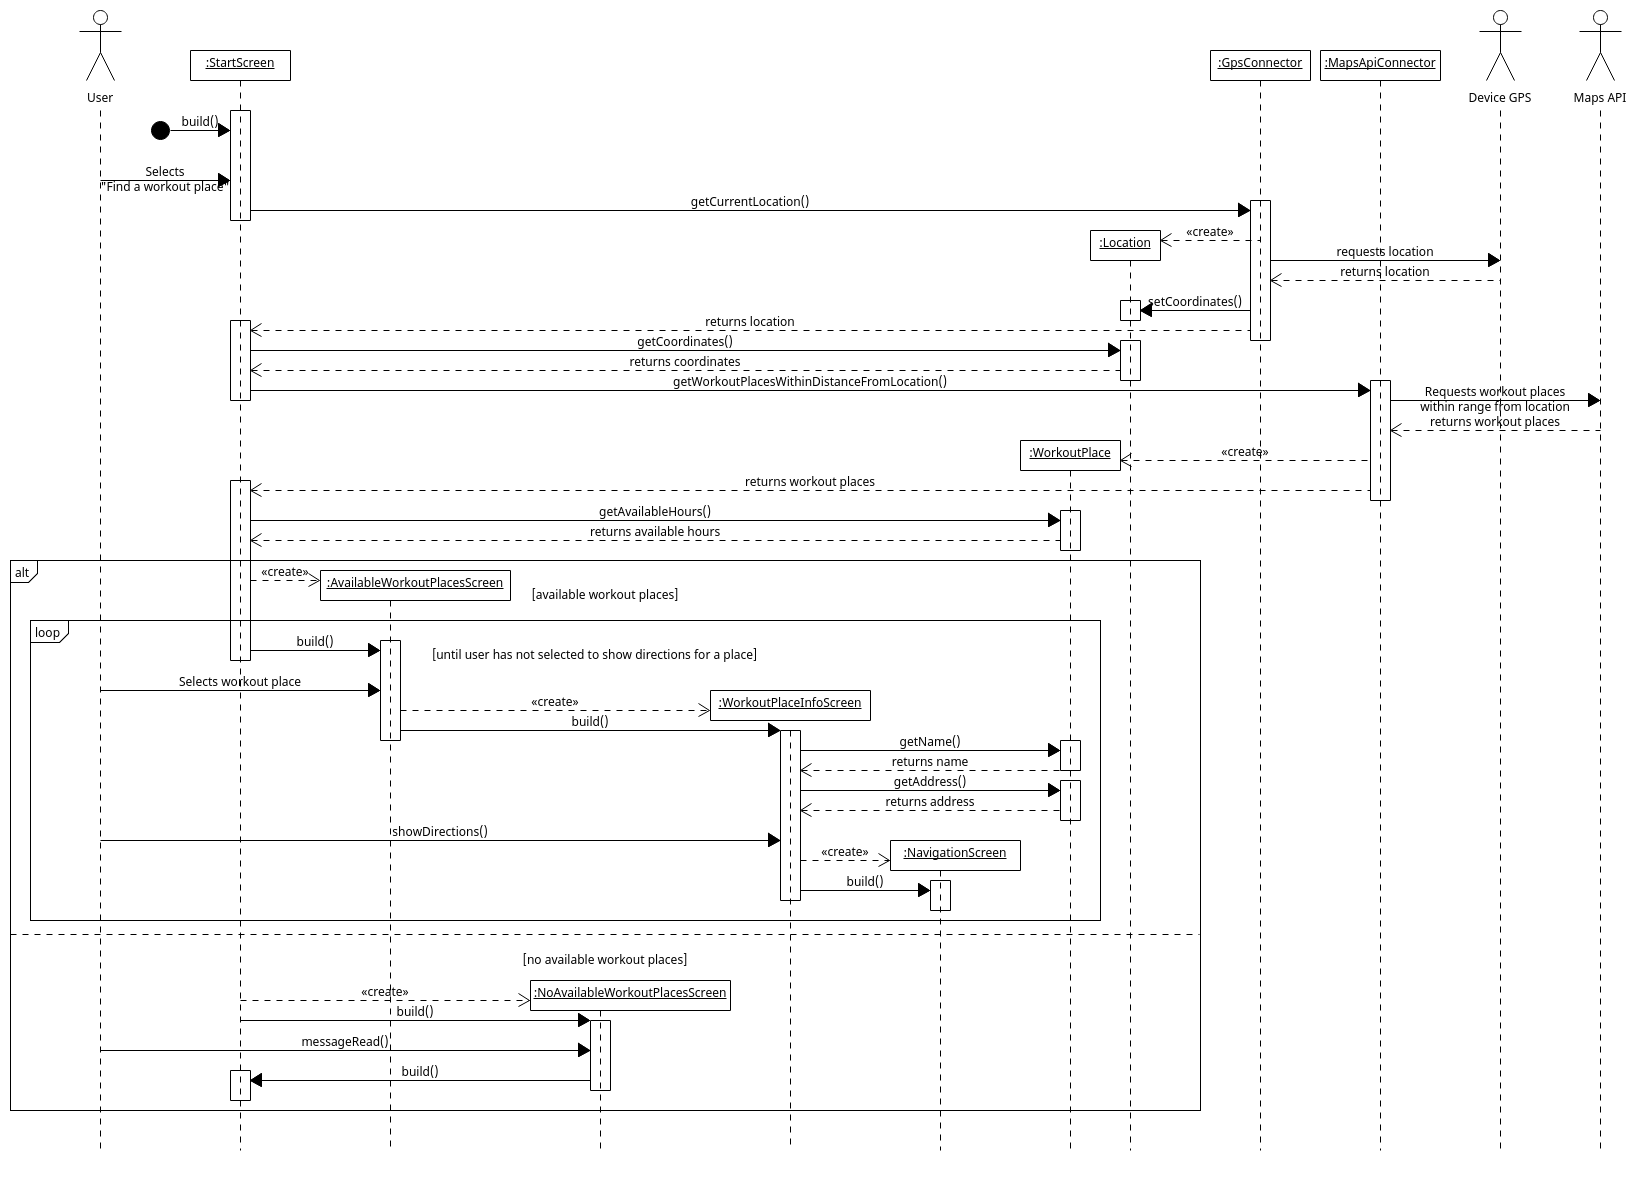
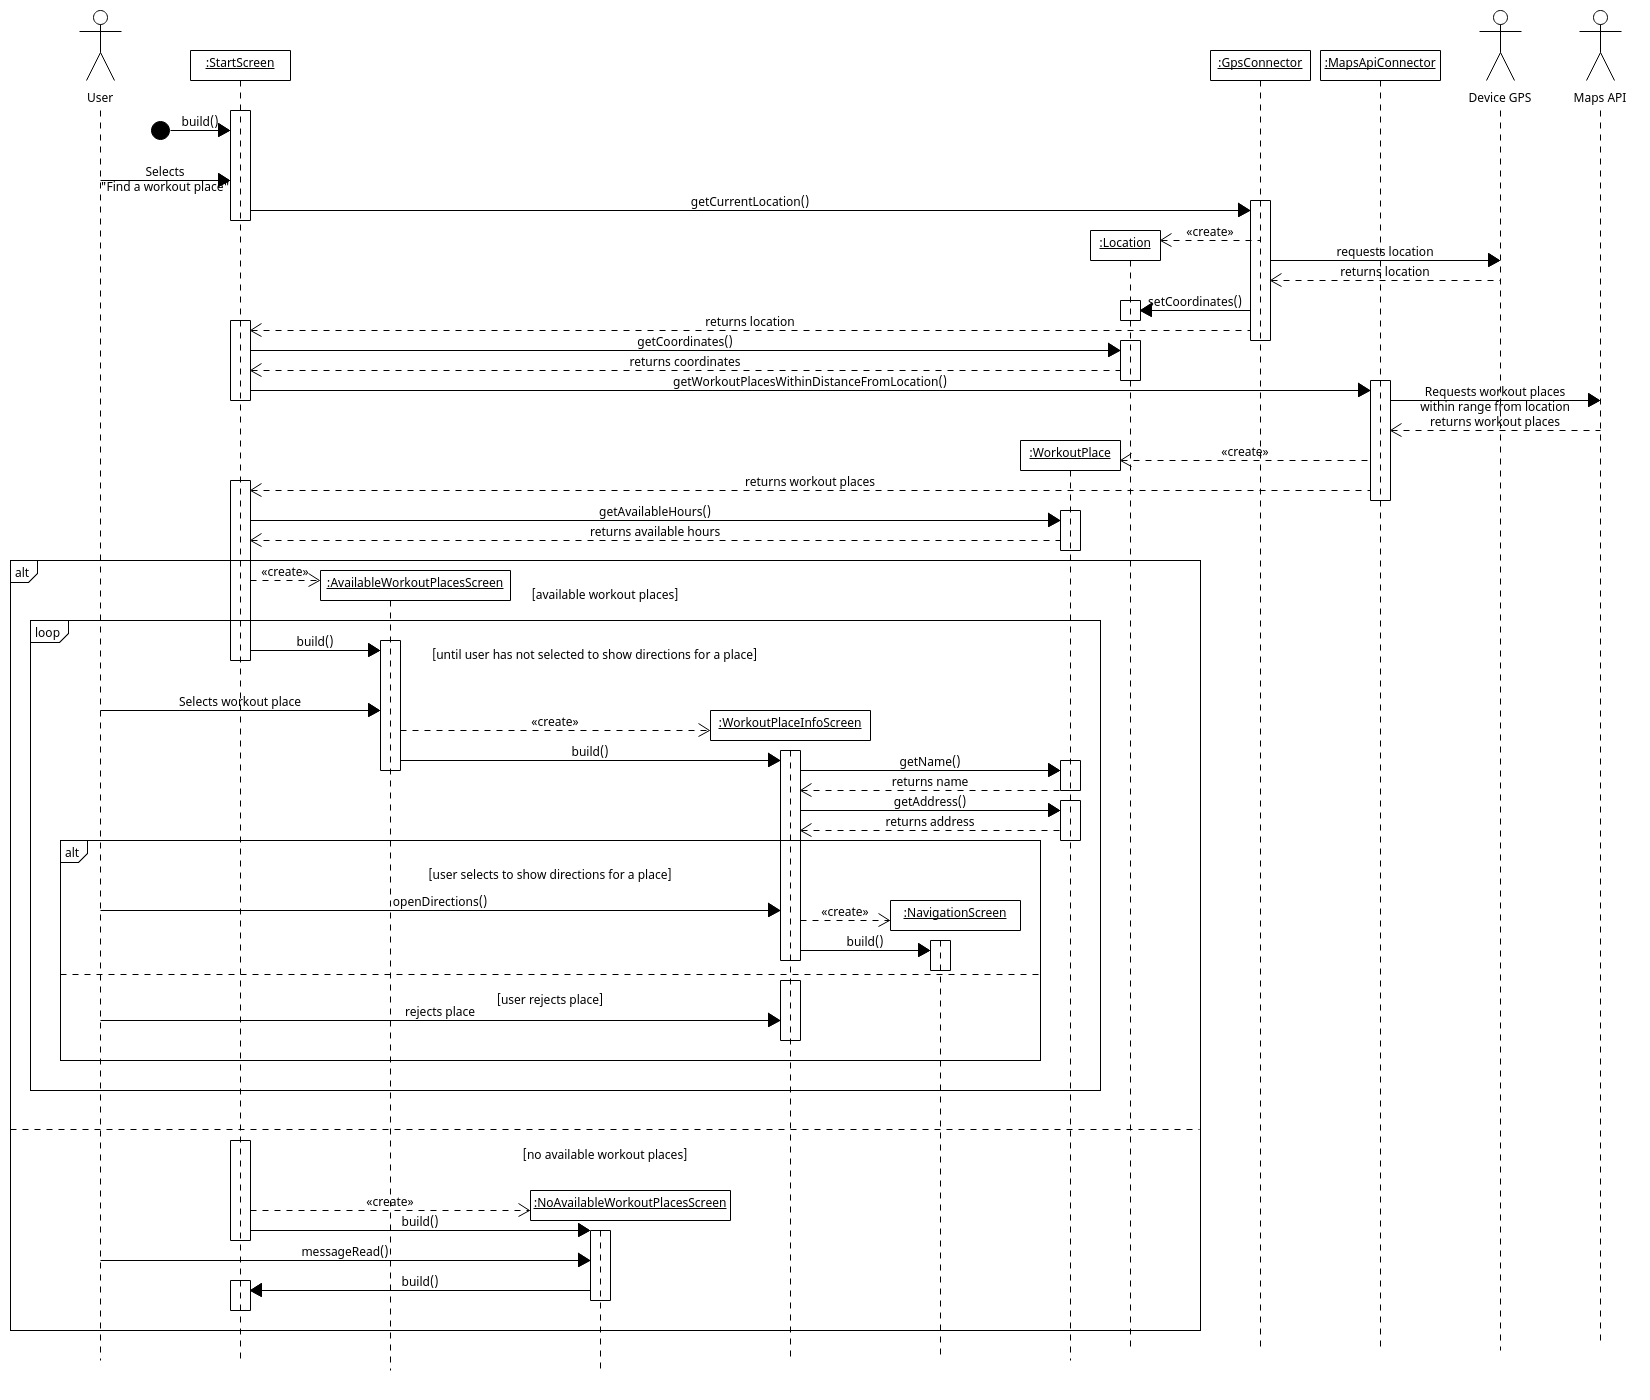
method update and diagram addition

diff --git a/mobile/getfit/lib/features/meals/presentation/meal_recommendation_screen.dart b/mobile/getfit/lib/features/meals/presentation/meal_recommendation_screen.dart
@@ -49,16 +49,17 @@ class _MealRecommendationScreenState extends State<MealRecommendationScreen> {
     final targetCal = profile?.targetDailyCalories ?? 2000;
     final todayCal = foodLog.todayCalories;
     final todayProt = foodLog.todayProtein;
-
     final targetProt = ((profile?.tdee ?? 2000) * 0.25 / 4);
 
     setState(() => _isLoading = true);
-    final meals = await _service.getRecommendations(
+
+    final meals = await _service.getMealsWithConstraints(
       city: profile?.city ?? 'Athens',
       goal: profile?.goal ?? 'maintain_weight',
       remainingCalories: (targetCal - todayCal).clamp(0, 5000),
       remainingProtein: (targetProt - todayProt).clamp(0, 300),
     );
+
     if (!mounted) return;
     setState(() {
       _meals = meals;
@@ -66,12 +67,12 @@ class _MealRecommendationScreenState extends State<MealRecommendationScreen> {
     });
   }
 
-  void _showMealDetail(MealRecommendation meal) {
+  void _showMealInfo(MealRecommendation meal) {
     showModalBottomSheet(
       context: context,
       isScrollControlled: true,
       backgroundColor: Colors.transparent,
-      builder: (_) => _MealDetailSheet(
+      builder: (_) => _MealInfoScreen(
         meal: meal,
         onConfirm: () {
           Navigator.pop(context);
@@ -81,10 +82,12 @@ class _MealRecommendationScreenState extends State<MealRecommendationScreen> {
       ),
     );
   }
+
   void _onConfirmMeal(MealRecommendation meal) {
     final myMeals = context.read<MyMealsController>();
     final shopping = context.read<ShoppingListController>();
     final foodLog = context.read<FoodLogController>();
+
     final mealProduct = FoodProduct(
       barcode: 'meal_rec_${meal.id}',
       name: meal.title,
@@ -95,15 +98,18 @@ class _MealRecommendationScreenState extends State<MealRecommendationScreen> {
       fatsPer100g: meal.fatsGrams.toDouble(),
       typicalServingG: 100,
     );
+
     foodLog.logFood(product: mealProduct, quantityG: 100);
-    shopping.addFromIngredients(meal.ingredients);
-    myMeals.saveMeal(meal);
+
+    shopping.addIngredients(meal.ingredients);
+
+    myMeals.addMeal(meal);
 
     showModalBottomSheet(
       context: context,
       isScrollControlled: true,
       backgroundColor: Colors.transparent,
-      builder: (_) => _ShoppingListSheet(
+      builder: (_) => _ShoppingListScreen(
         onDone: () => Navigator.pop(context),
       ),
     );
@@ -273,7 +279,7 @@ class _MealRecommendationScreenState extends State<MealRecommendationScreen> {
                 width: cardWidth,
                 child: _MealCard(
                   meal: m,
-                  onTap: () => _showMealDetail(m),
+                  onTap: () => _showMealInfo(m),
                 ),
               )).toList(),
             ),
@@ -332,8 +338,8 @@ class _MealRecommendationScreenState extends State<MealRecommendationScreen> {
 }
 
 
-class _MealDetailSheet extends StatelessWidget {
-  const _MealDetailSheet({required this.meal, required this.onConfirm, required this.onDismiss});
+class _MealInfoScreen extends StatelessWidget {
+  const _MealInfoScreen({required this.meal, required this.onConfirm, required this.onDismiss});
   final MealRecommendation meal;
   final VoidCallback onConfirm;
   final VoidCallback onDismiss;
@@ -394,10 +400,10 @@ class _MealDetailSheet extends StatelessWidget {
                 borderRadius: BorderRadius.circular(12),
                 border: Border.all(color: const Color(0xFFA5D6A7)),
               ),
-              child: Row(children: [
-                const Icon(Icons.info_outline_rounded, color: Color(0xFF2E7D32), size: 16),
-                const SizedBox(width: 8),
-                const Expanded(
+              child: const Row(children: [
+                Icon(Icons.info_outline_rounded, color: Color(0xFF2E7D32), size: 16),
+                SizedBox(width: 8),
+                Expanded(
                   child: Text(
                     'Adding this meal will log it to your daily food diary and update your remaining calories.',
                     style: TextStyle(fontSize: 12, color: Color(0xFF2E7D32), height: 1.4),
@@ -450,8 +456,8 @@ Widget _macroChip(String label, String value, Color color) => Container(
 );
 
 
-class _ShoppingListSheet extends StatelessWidget {
-  const _ShoppingListSheet({required this.onDone});
+class _ShoppingListScreen extends StatelessWidget {
+  const _ShoppingListScreen({required this.onDone});
   final VoidCallback onDone;
 
   @override
@@ -553,6 +559,7 @@ class _ShoppingListSheet extends StatelessWidget {
     );
   }
 }
+
 class _StoreMealCard extends StatelessWidget {
   @override
   Widget build(BuildContext context) {

diff --git a/mobile/getfit/lib/features/workout_places/presentation/workout_place_screen.dart b/mobile/getfit/lib/features/workout_places/presentation/workout_place_screen.dart
@@ -33,7 +33,7 @@ class _WorkoutPlaceScreenState extends State<WorkoutPlaceScreen> {
     final city = context.read<SessionController>().currentUser?.profile.city ?? 'Athens';
     _mockCity = city;
 
-    final result = await _service.searchPlaces(city: city);
+    final result = await _service.getWorkoutPlacesWithinDistanceFromLocation(city: city);
     if (!mounted) return;
 
     setState(() {
@@ -44,11 +44,11 @@ class _WorkoutPlaceScreenState extends State<WorkoutPlaceScreen> {
     if (result.open.isEmpty) {
       await Future.delayed(const Duration(milliseconds: 200));
       if (!mounted) return;
-      _showNoPlacesDialog();
+      _showNoAvailableWorkoutPlacesMessage();
     }
   }
 
-  void _showNoPlacesDialog() {
+  void _showNoAvailableWorkoutPlacesMessage() {
     showDialog(
       context: context,
       barrierDismissible: false,
@@ -76,23 +76,23 @@ class _WorkoutPlaceScreenState extends State<WorkoutPlaceScreen> {
     );
   }
 
-  void _showPlaceDetail(WorkoutPlace place) {
+  void _showWorkoutPlaceInfo(WorkoutPlace place) {
     showModalBottomSheet(
       context: context,
       isScrollControlled: true,
       backgroundColor: Colors.transparent,
-      builder: (_) => _PlaceDetailSheet(
+      builder: (_) => _WorkoutPlaceInfoSheet(
         place: place,
         onDirections: () {
           Navigator.pop(context);
-          _openDirections(place);
+          openDirections(place);
         },
         onCancel: () => Navigator.pop(context),
       ),
     );
   }
 
-  Future<void> _openDirections(WorkoutPlace place) async {
+  Future<void> openDirections(WorkoutPlace place) async {
     final uri = Uri.parse(
       'https://www.google.com/maps/dir/?api=1&destination=${place.latitude},${place.longitude}&travelmode=walking',
     );
@@ -194,7 +194,11 @@ class _WorkoutPlaceScreenState extends State<WorkoutPlaceScreen> {
             else
               ...(_result!.open.map((p) => Padding(
                 padding: const EdgeInsets.only(bottom: 16),
-                child: _PlaceCard(place: p, isOpen: true, onTap: () => _showPlaceDetail(p)),
+                child: _PlaceCard(
+                  place: p,
+                  isOpen: true,
+                  onTap: () => _showWorkoutPlaceInfo(p),
+                ),
               ))),
 
             if (_result!.closed.isNotEmpty) ...[
@@ -228,7 +232,11 @@ class _WorkoutPlaceScreenState extends State<WorkoutPlaceScreen> {
                 const SizedBox(height: 12),
                 ...(_result!.closed.map((p) => Padding(
                   padding: const EdgeInsets.only(bottom: 12),
-                  child: _PlaceCard(place: p, isOpen: false, onTap: () => _showPlaceDetail(p)),
+                  child: _PlaceCard(
+                    place: p,
+                    isOpen: false,
+                    onTap: () => _showWorkoutPlaceInfo(p),
+                  ),
                 ))),
               ],
             ],
@@ -311,7 +319,7 @@ class _PlaceCard extends StatelessWidget {
                   ),
                 ),
                 const SizedBox(height: 4),
-                Text(place.hoursLabel, style: TextStyle(fontSize: 11, color: Colors.grey[500])),
+                Text(place.availableHours, style: TextStyle(fontSize: 11, color: Colors.grey[500])),
               ]),
             ]),
             const SizedBox(height: 12),
@@ -344,11 +352,15 @@ class _PlaceCard extends StatelessWidget {
 }
 
 
-class _PlaceDetailSheet extends StatelessWidget {
-  const _PlaceDetailSheet({required this.place, required this.onDirections, required this.onCancel});
+class _WorkoutPlaceInfoSheet extends StatelessWidget {
+  const _WorkoutPlaceInfoSheet({
+    required this.place,
+    required this.onDirections,
+    required this.onCancel,
+  });
   final WorkoutPlace place;
   final VoidCallback onDirections;
-  final VoidCallback onCancel; //flow 2 alter*
+  final VoidCallback onCancel;
 
   @override
   Widget build(BuildContext context) {
@@ -391,7 +403,7 @@ class _PlaceDetailSheet extends StatelessWidget {
             const SizedBox(height: 20),
 
             _infoTile(Icons.location_on_outlined, 'Address', place.address),
-            _infoTile(Icons.access_time_rounded, 'Hours', place.hoursLabel),
+            _infoTile(Icons.access_time_rounded, 'Hours', place.availableHours),
             _infoTile(Icons.star_rounded, 'Rating', '${place.rating} / 5.0'),
             if (place.phone.isNotEmpty)
               _infoTile(Icons.phone_outlined, 'Phone', place.phone),

diff --git a/mobile/getfit/lib/features/meals/state/shopping_list_controller.dart b/mobile/getfit/lib/features/meals/state/shopping_list_controller.dart
@@ -8,7 +8,7 @@ class ShoppingListController extends ChangeNotifier {
   List<ShoppingListItem> get items => List.unmodifiable(_items);
   bool get isEmpty => _items.isEmpty;
 
-  void addFromIngredients(List<MealIngredient> ingredients) {
+  void addIngredients(List<MealIngredient> ingredients) {
     for (final ing in ingredients) {
       final existing = _items.indexWhere(
           (i) => i.name.toLowerCase() == ing.name.toLowerCase() && i.unit == ing.unit);

diff --git a/mobile/getfit/lib/features/workout_places/data/workout_place_service.dart b/mobile/getfit/lib/features/workout_places/data/workout_place_service.dart
@@ -2,7 +2,9 @@ import '../../../core/data/country_city_data.dart';
 import '../domain/workout_place.dart';
 
 class WorkoutPlaceService {
-  Future<WorkoutPlaceResult> searchPlaces({required String city}) async {
+  Future<WorkoutPlaceResult> getWorkoutPlacesWithinDistanceFromLocation({
+    required String city,
+  }) async {
     await Future.delayed(const Duration(milliseconds: 900));
 
     final userLat = CountryCityData.latitudeFor(city);

diff --git a/mobile/getfit/lib/features/meals/state/my_meals_controller.dart b/mobile/getfit/lib/features/meals/state/my_meals_controller.dart
@@ -9,7 +9,7 @@ class MyMealsController extends ChangeNotifier {
 
   bool isSaved(String mealId) => _meals.any((m) => m.meal.id == mealId);
 
-  void saveMeal(MealRecommendation meal) {
+  void addMeal(MealRecommendation meal) {
     if (isSaved(meal.id)) return;
     _meals.insert(0, MyMeal(
       id: DateTime.now().millisecondsSinceEpoch.toString(),

diff --git a/mobile/getfit/lib/features/meals/data/meal_recommendation_service.dart b/mobile/getfit/lib/features/meals/data/meal_recommendation_service.dart
@@ -2,7 +2,7 @@ import '../domain/meal_ingredient.dart';
 import '../domain/meal_recommendation.dart';
 
 class MealRecommendationService {
-  Future<List<MealRecommendation>> getRecommendations({
+  Future<List<MealRecommendation>> getMealsWithConstraints({
     required String city,
     required String goal,
     required double remainingCalories,

diff --git a/mobile/getfit/lib/features/workout_places/domain/workout_place.dart b/mobile/getfit/lib/features/workout_places/domain/workout_place.dart
@@ -34,7 +34,7 @@ class WorkoutPlace {
     return hour >= openingHour || hour < closingHour;
   }
 
-  String get hoursLabel {
+  String get availableHours {
     String fmt(int h) => '${h.toString().padLeft(2, '0')}:00';
     if (closingHour > openingHour) {
       return '${fmt(openingHour)} – ${fmt(closingHour)}';
